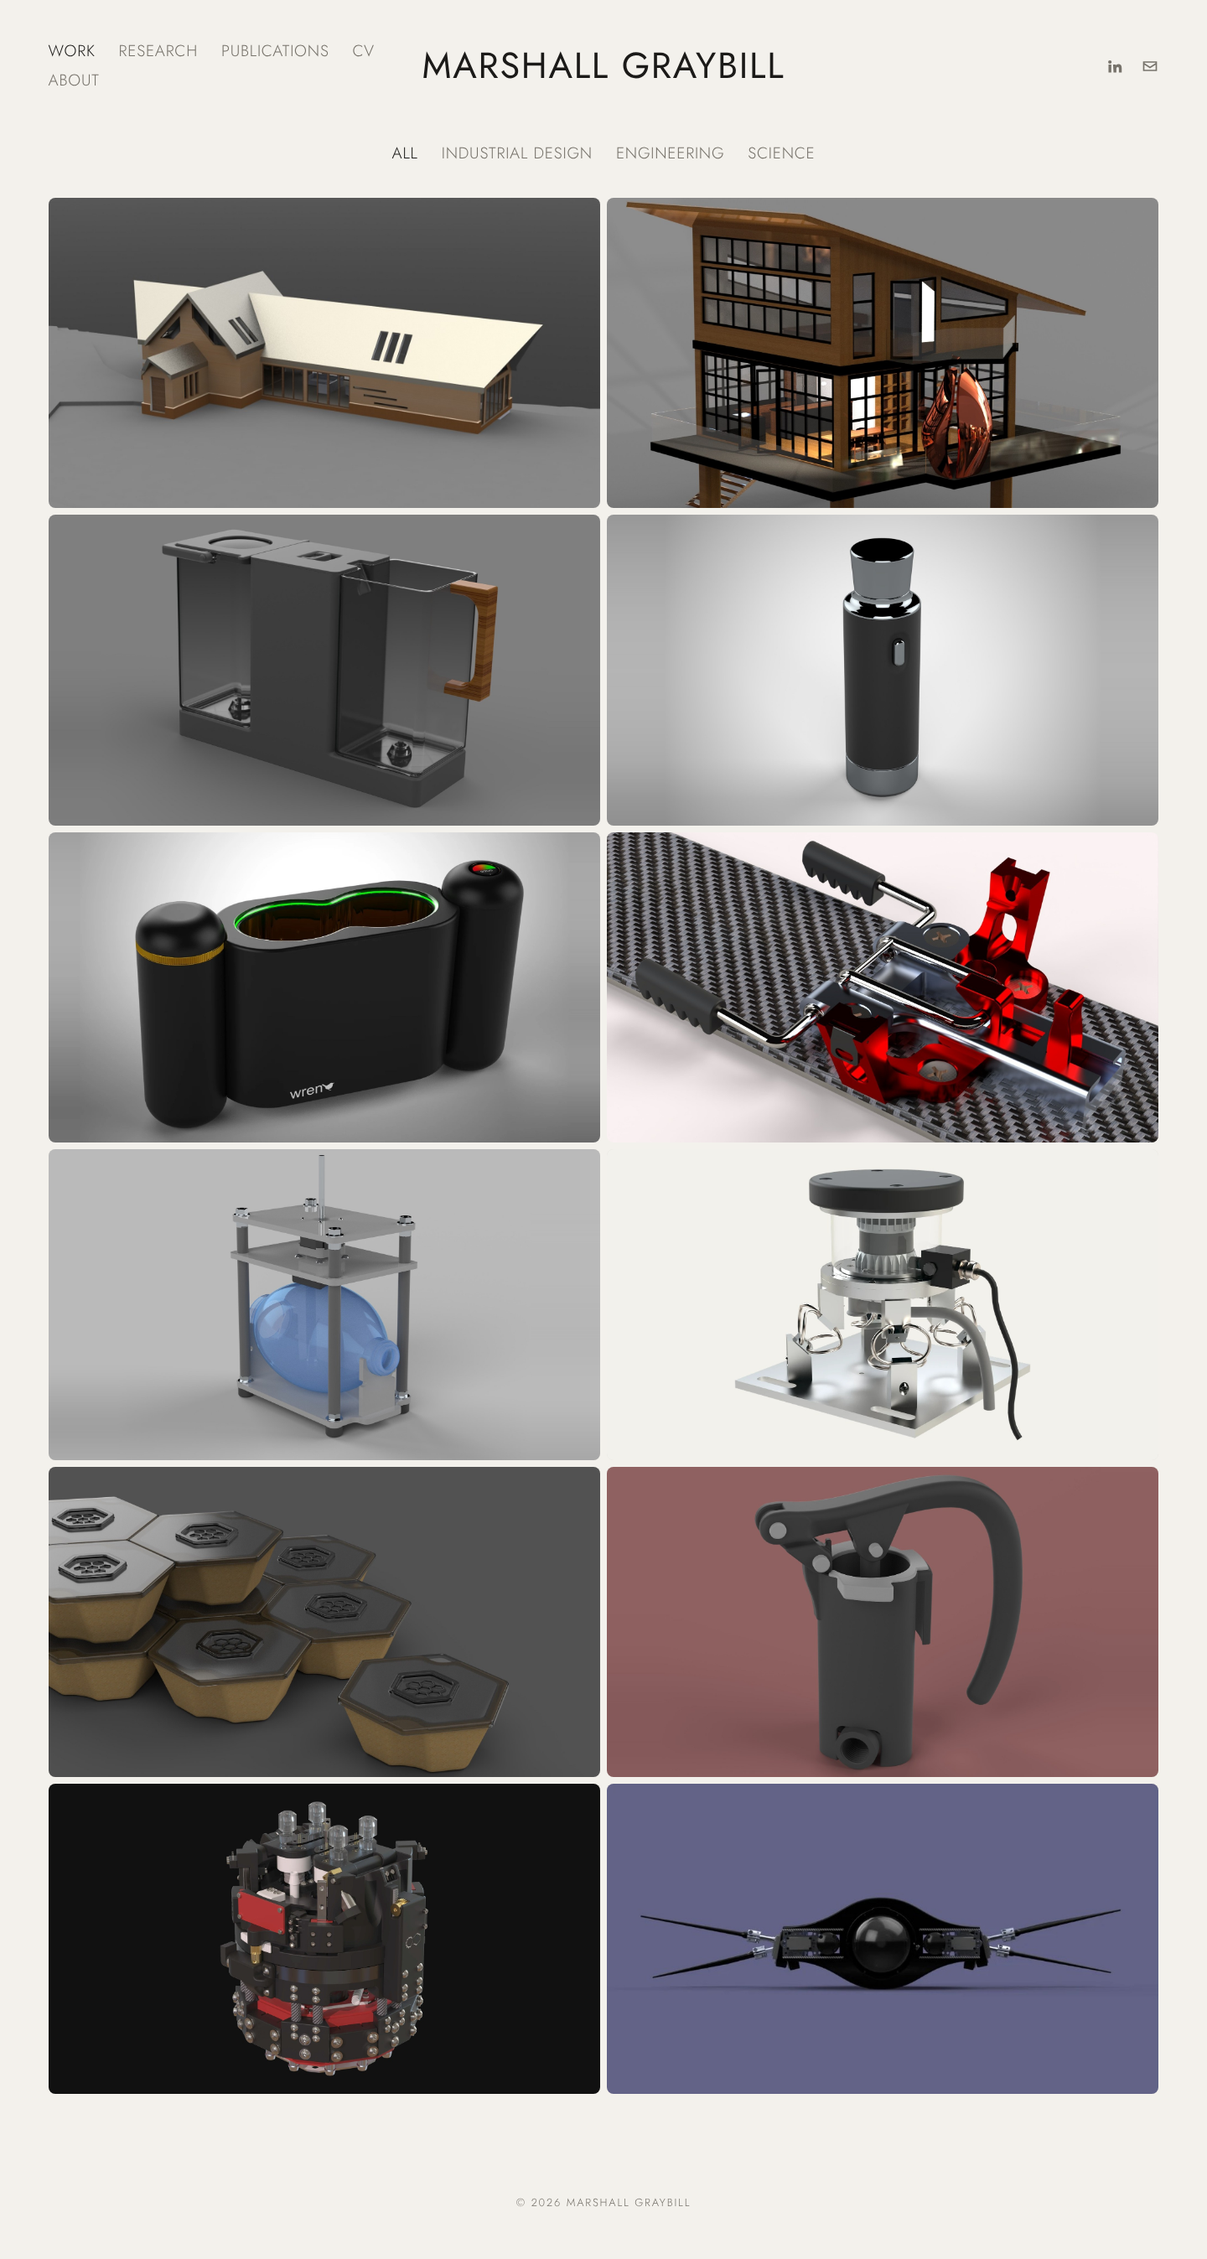
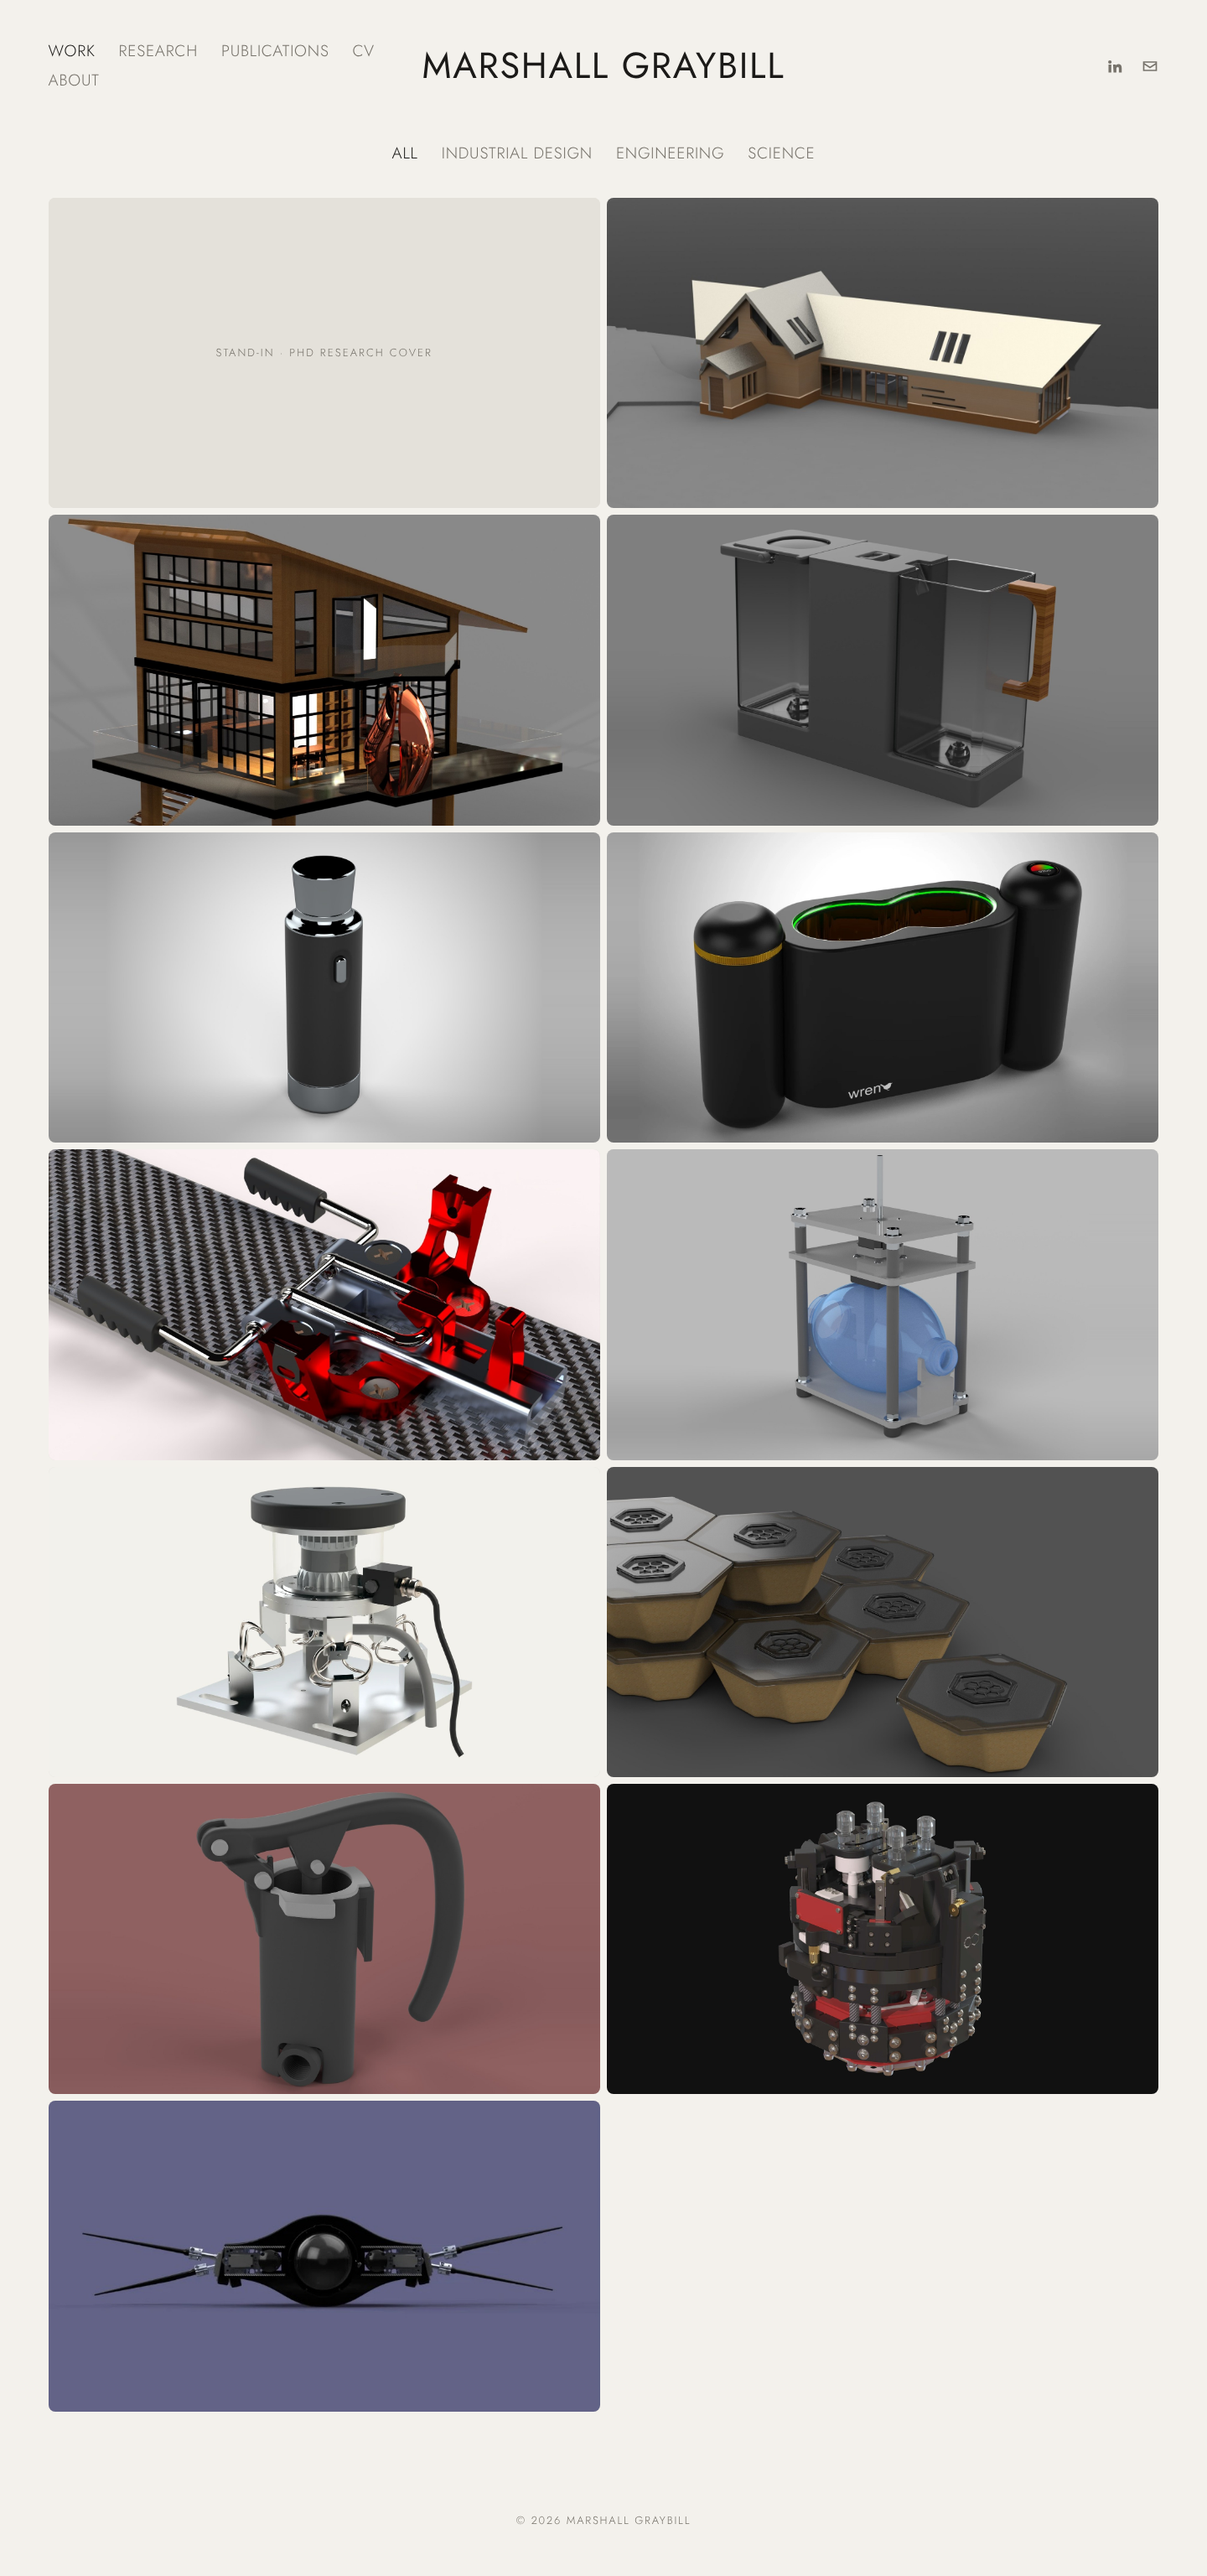
Home: add PhD Research tile (stand-in image) linking to research page
Claude-Session: https://claude.ai/code/session_01FRyJPBebUtKmxdzujR9oGm

diff --git a/index.html b/index.html
@@ -40,6 +40,12 @@
   data-tags: any of  id  eng  sci  (space separated) — controls the sorting tabs.
 -->
 <main class="grid">
+  <!-- PhD research: swap the stand-in for <img src="images/research/cover.jpg" alt="..."> once there's a cover image -->
+  <a class="tile" href="research.html" data-tags="sci eng">
+    <div class="ph" style="height:100%;border-radius:0;border:0">Stand-in · PhD research cover</div>
+    <div class="cap"><span>Science · Engineering</span><h3>PhD Research</h3></div>
+  </a>
+
   <a class="tile" href="projects/canyon-house.html" data-tags="id">
     <img src="images/projects/canyon-house/cover.jpg" alt="Canyon House exterior render">
     <div class="cap"><span>Architecture · Industrial Design</span><h3>Canyon House</h3></div>
